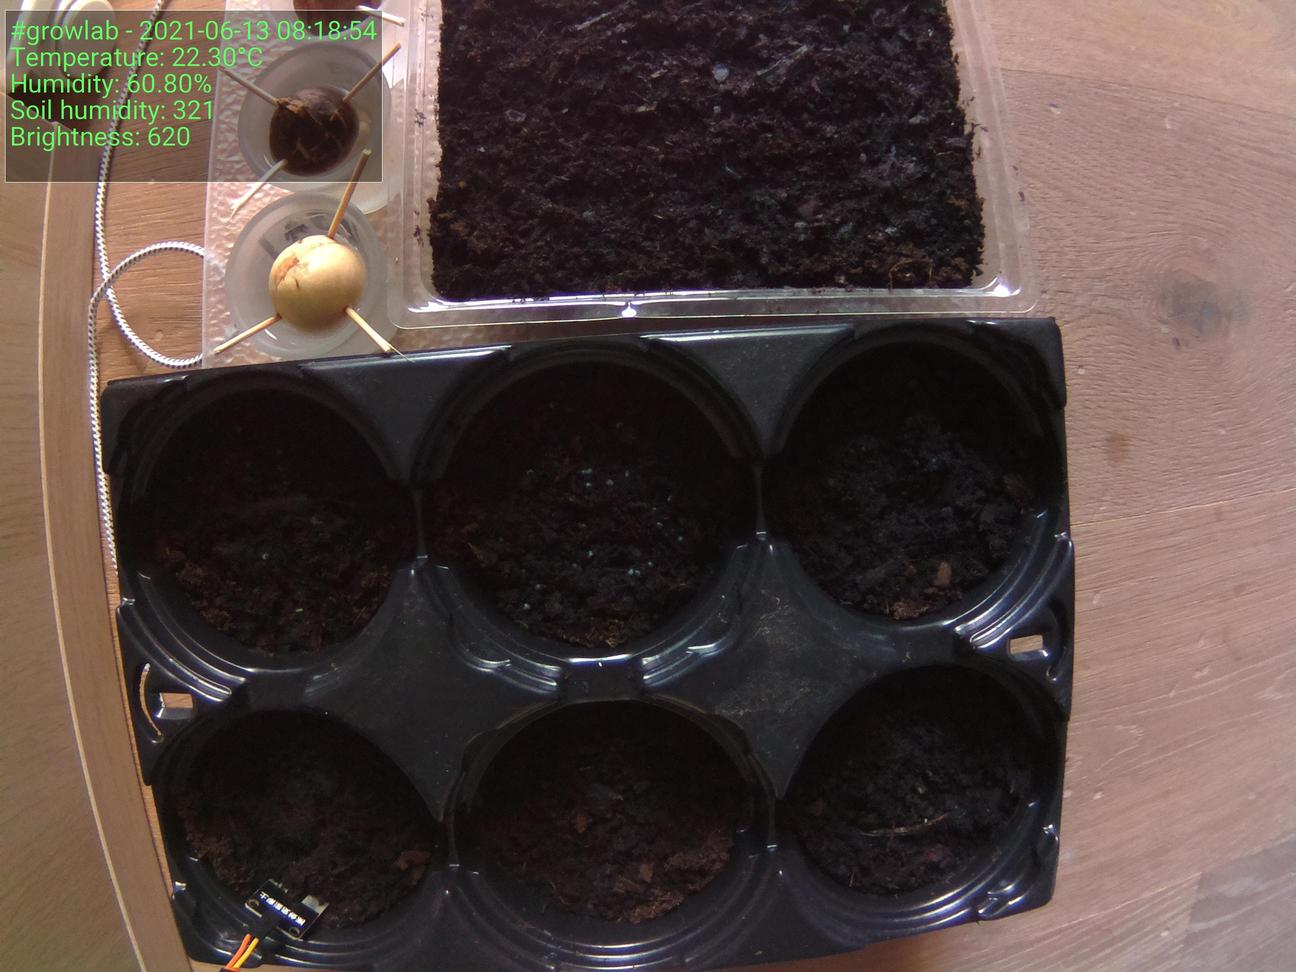
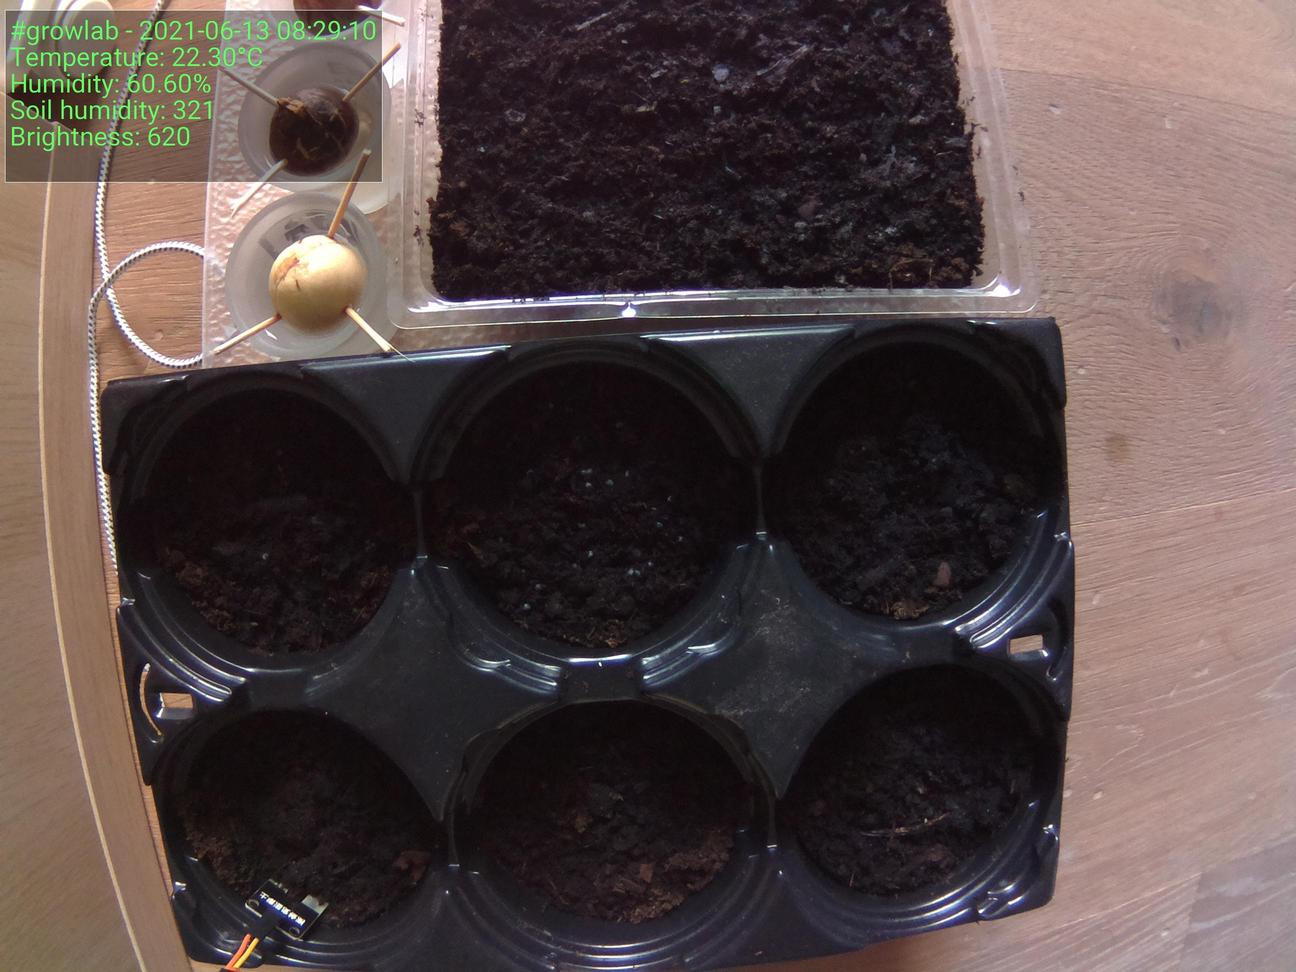
:bento: Update preview

diff --git a/index.html b/index.html
@@ -39,7 +39,7 @@
                     <tbody>
                         <tr>
                             <td>Time</td>
-                            <td>2021-06-13 08:18:54</td>
+                            <td>2021-06-13 08:29:10</td>
                         </tr>
                         <tr>
                             <td>Temperature</td>
@@ -47,7 +47,7 @@
                         </tr>
                         <tr>
                             <td>Humidity</td>
-                            <td>60.80%</td>
+                            <td>60.60%</td>
                         </tr>
                     </tbody>
                 </table>
@@ -55,7 +55,7 @@
 
                 <h5>Latest image</h5>
 		<div style="width: 85%;">
-	                <img class="figure-img img-fluid rounded" src="./preview.jpg?uid=1623565141.6373951">
+	                <img class="figure-img img-fluid rounded" src="./preview.jpg?uid=1623565757.4182937">
 		</div>
             </div>
         </div>
